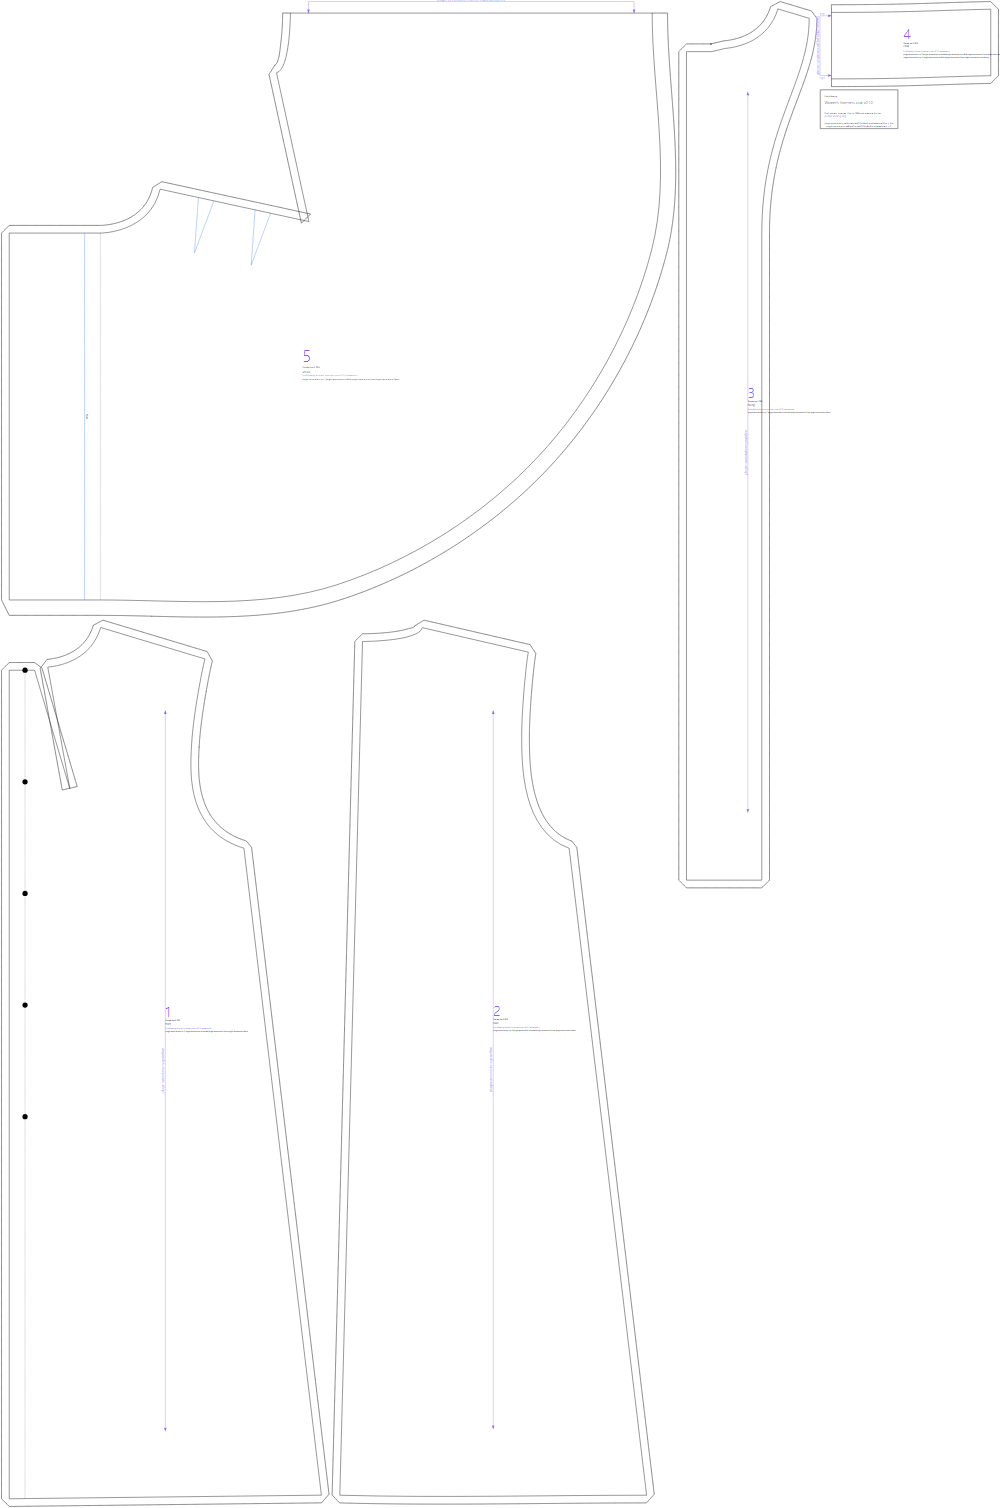
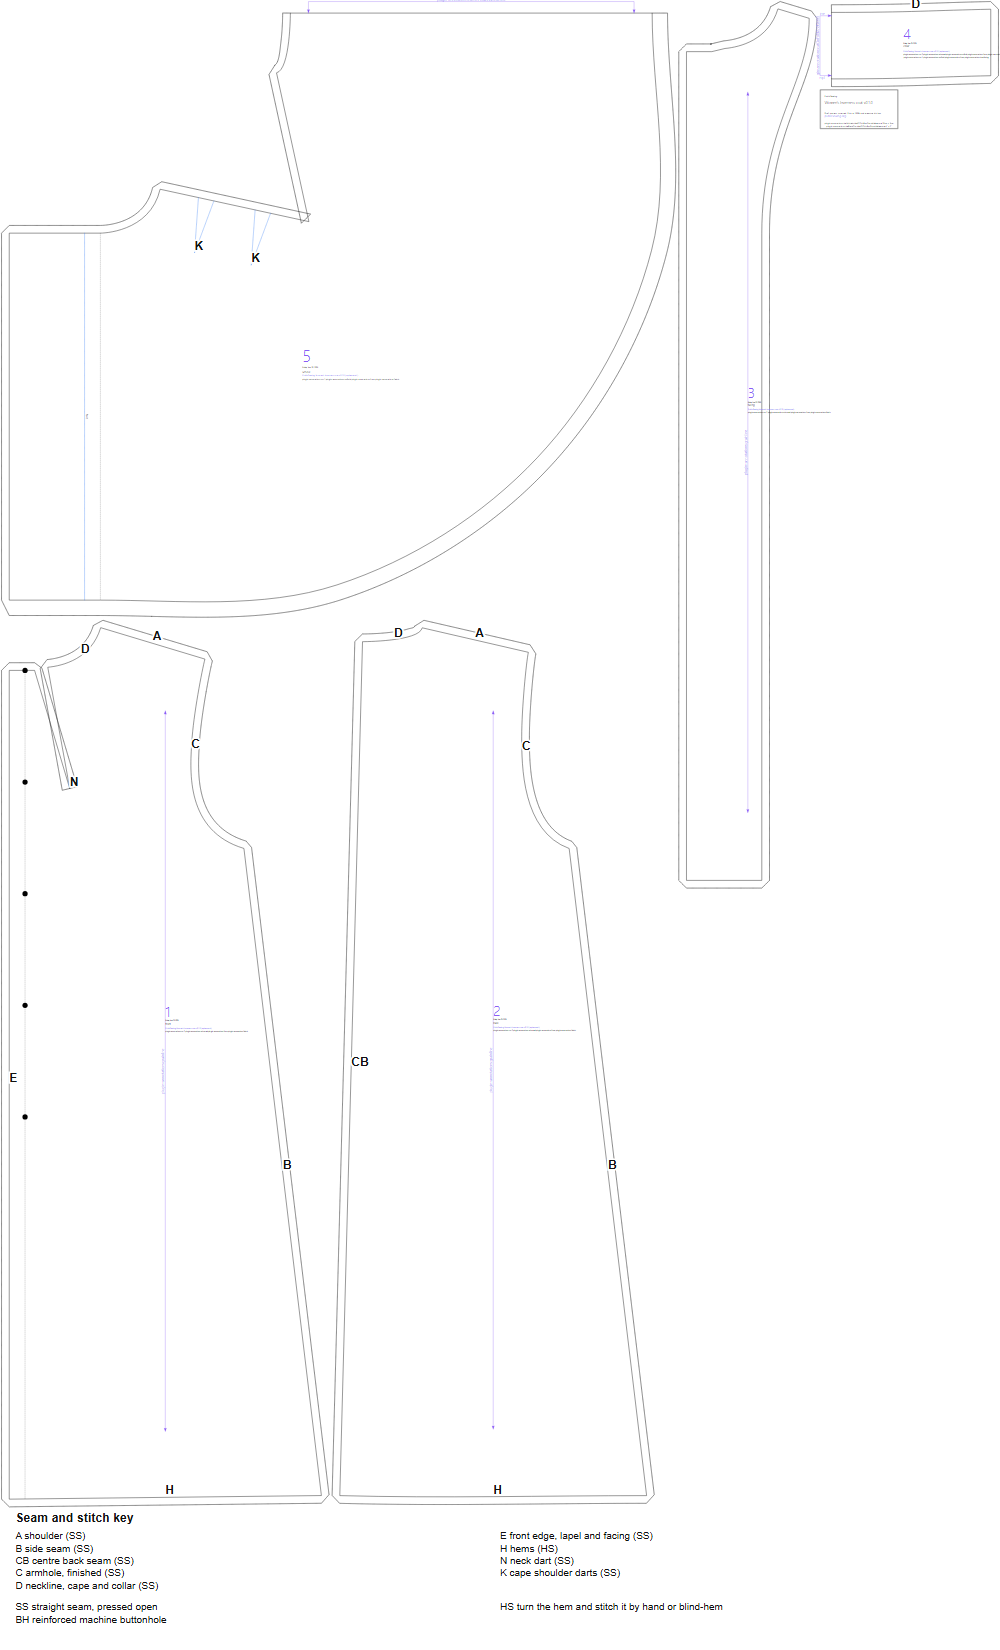
Map the Inverness coat: the box coat's body, sleeveless, under a cape
A null code in a merged map drops the inherited one.

diff --git a/designs/SPEC.md b/designs/SPEC.md
@@ -14,7 +14,7 @@ by named operations. [chore-coat/spec.yaml](chore-coat/spec.yaml) is the plaines
 | `pieces` | The pattern pieces, in order (below). |
 | `variants` | The same pattern with other options, shown on the design's page: `<key>: { name, description, options: { <option>: <value> } }`. Each option must be shown in the pattern tool (have a `menu`); the page's instructions come from `labels.yaml`. `tools/preview.mjs` renders each one, `site/illustrations/<design>.<key>.jpg` is its illustration, and `test/variants.test.mjs` drafts each at every size. Not inherited through `extends`. |
 | `extends` | Start from another spec file: its pieces, block and options. This spec's `options` entries are merged into the parent's (`buttons: { count: 5 }` changes only the default); its `pieces` are added, or replace the parent's by key. A parent with no `about` is a template (`templates/`): its pieces take this design's name. |
-| `patternMap` | Printed piece numbers, seam and placement codes and a stitch key, drawn on the page preview, the SVG and PDF downloads and the drape input (below). Inherited through `extends`; a spec's own map replaces it, `patternMap: false` drops it, and `patternMap: { merge: true, pieces, codes }` adds to it. |
+| `patternMap` | Printed piece numbers, seam and placement codes and a stitch key, drawn on the page preview, the SVG and PDF downloads and the drape input (below). Inherited through `extends`; a spec's own map replaces it, `patternMap: false` drops it, and `patternMap: { merge: true, pieces, codes }` adds to it (a `null` piece number or code drops the inherited one). |
 
 ## Pieces
 
